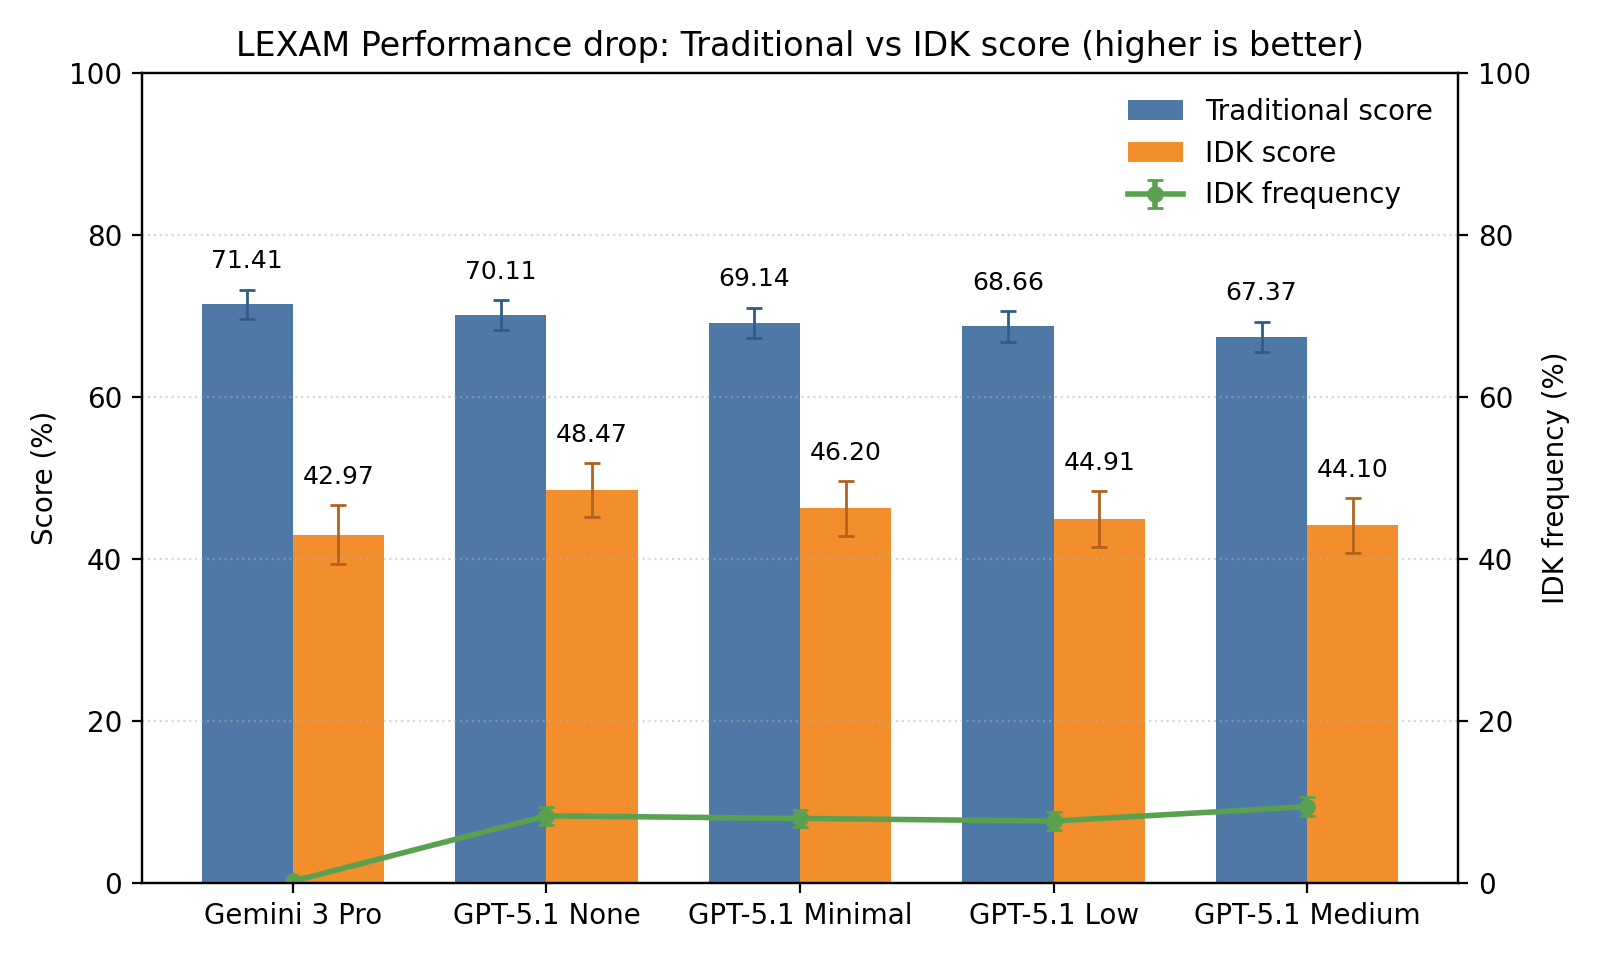
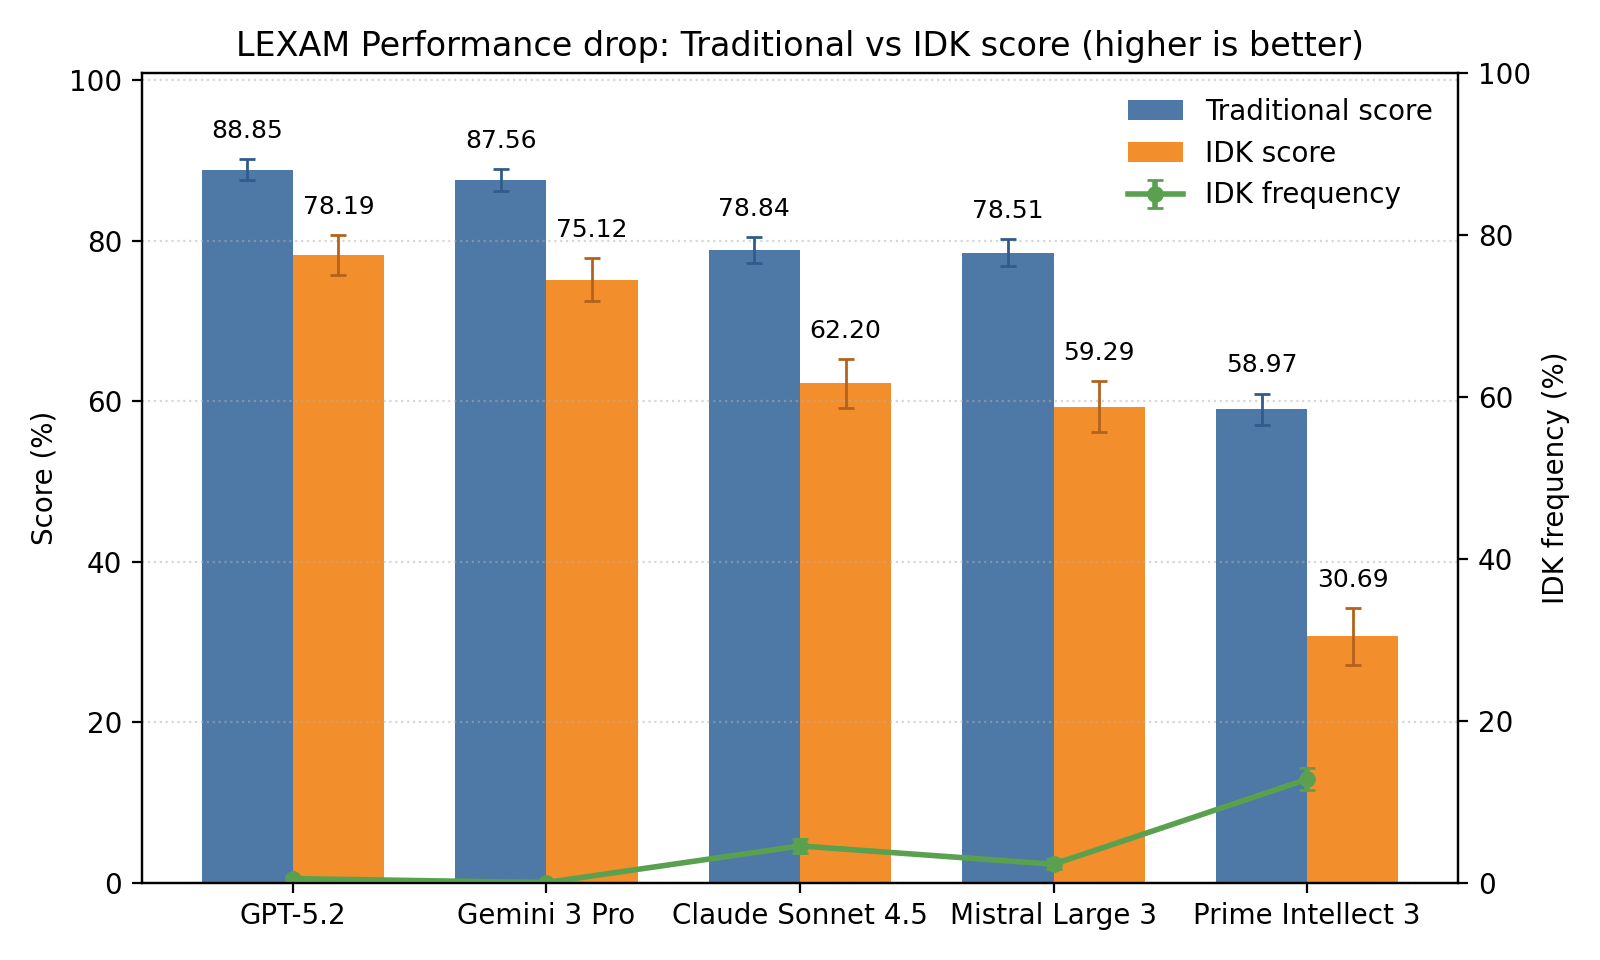
updated lexam plot

diff --git a/summarize_results.py b/summarize_results.py
@@ -605,11 +605,11 @@ if plt is not None:
     
     # Define models for LEXAM
     lexam_models = [
+        ("gpt-5.2", "GPT-5.2"),
         ("gemini-3-pro-preview", "Gemini 3 Pro"),
-        ("gpt-5.1-none", "GPT-5.1 None"),
-        ("gpt-5.1-minimal", "GPT-5.1 Minimal"),
-        ("gpt-5.1-low", "GPT-5.1 Low"),
-        ("gpt-5.1-medium", "GPT-5.1 Medium"),
+        ("claude-sonnet-4.5", "Claude Sonnet 4.5"),
+        ("mistral-large-2512", "Mistral Large 3"),
+        ("intellect-3", "Prime Intellect 3"),
     ]
     
     create_chart(gpqa_rows, "GPQA Diamond", "score_drop_barchart_gpqa.png", gpqa_models)
